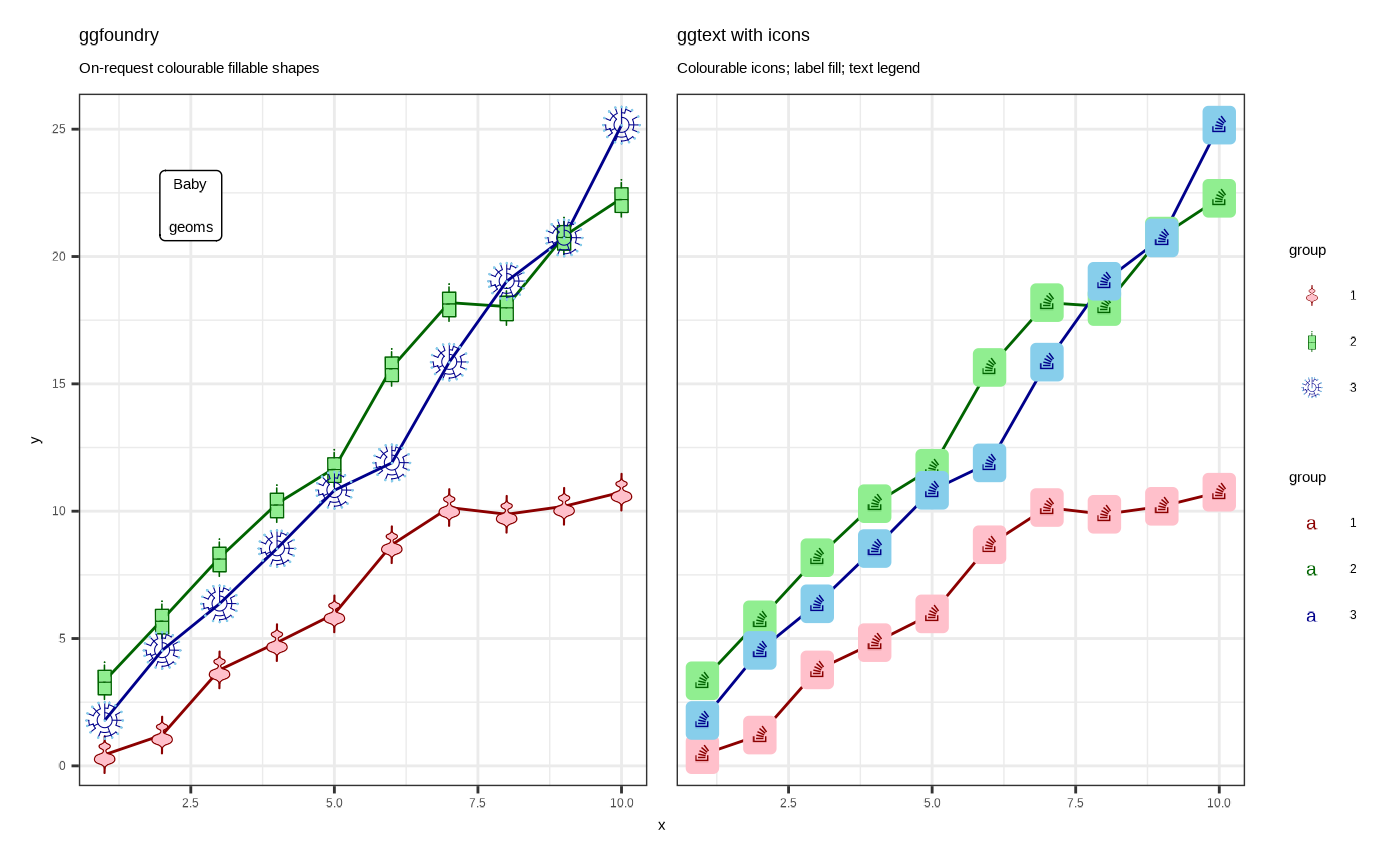
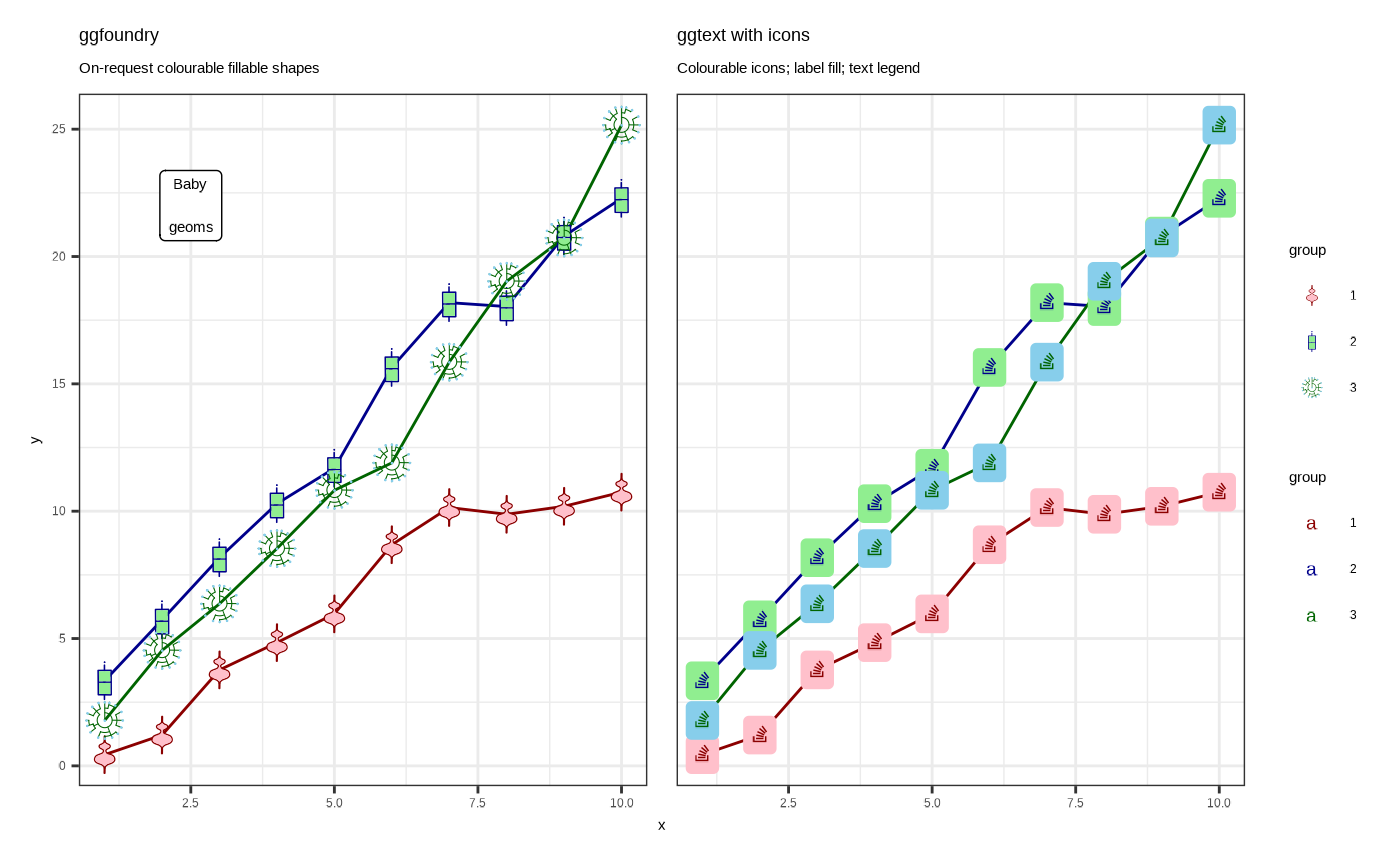
Deploying to gh-pages from @ cgoo4/ggfoundry@312be8160d98e6ab453e736f7d4fd33cc9e7789d 🚀

diff --git a/articles/ggfoundry.html b/articles/ggfoundry.html
@@ -157,7 +157,7 @@ great option. They are colourable and appear in the legend.</p>
 <span><span class="va">p</span> <span class="op">&lt;-</span> <span class="va">df</span> <span class="op">|&gt;</span></span>
 <span>  <span class="fu"><a href="https://ggplot2.tidyverse.org/reference/ggplot.html" class="external-link">ggplot</a></span><span class="op">(</span><span class="fu"><a href="https://ggplot2.tidyverse.org/reference/aes.html" class="external-link">aes</a></span><span class="op">(</span><span class="va">x</span>, <span class="va">y</span>, shape <span class="op">=</span> <span class="va">group</span>, colour <span class="op">=</span> <span class="va">group</span>, fill <span class="op">=</span> <span class="va">group</span><span class="op">)</span><span class="op">)</span> <span class="op">+</span></span>
 <span>  <span class="fu"><a href="https://ggplot2.tidyverse.org/reference/geom_path.html" class="external-link">geom_line</a></span><span class="op">(</span>show.legend <span class="op">=</span> <span class="cn">FALSE</span><span class="op">)</span> <span class="op">+</span></span>
-<span>  <span class="fu"><a href="https://ggplot2.tidyverse.org/reference/scale_manual.html" class="external-link">scale_colour_manual</a></span><span class="op">(</span>values <span class="op">=</span> <span class="fu"><a href="https://rdrr.io/r/base/c.html" class="external-link">c</a></span><span class="op">(</span><span class="st">"darkred"</span>, <span class="st">"darkgreen"</span>, <span class="st">"darkblue"</span><span class="op">)</span><span class="op">)</span> <span class="op">+</span></span>
+<span>  <span class="fu"><a href="https://ggplot2.tidyverse.org/reference/scale_manual.html" class="external-link">scale_colour_manual</a></span><span class="op">(</span>values <span class="op">=</span> <span class="fu"><a href="https://rdrr.io/r/base/c.html" class="external-link">c</a></span><span class="op">(</span><span class="st">"darkred"</span>, <span class="st">"darkblue"</span>, <span class="st">"darkgreen"</span><span class="op">)</span><span class="op">)</span> <span class="op">+</span></span>
 <span>  <span class="fu"><a href="https://ggplot2.tidyverse.org/reference/scale_manual.html" class="external-link">scale_fill_manual</a></span><span class="op">(</span>values <span class="op">=</span> <span class="fu"><a href="https://rdrr.io/r/base/c.html" class="external-link">c</a></span><span class="op">(</span><span class="st">"pink"</span>, <span class="st">"lightgreen"</span>, <span class="st">"skyblue"</span><span class="op">)</span><span class="op">)</span> <span class="op">+</span></span>
 <span>  <span class="fu"><a href="https://ggplot2.tidyverse.org/reference/ggtheme.html" class="external-link">theme_bw</a></span><span class="op">(</span><span class="op">)</span></span>
 <span></span>
@@ -171,8 +171,8 @@ great option. They are colourable and appear in the legend.</p>
 <span>    <span class="op">)</span></span>
 <span></span>
 <span><span class="va">p2</span> <span class="op">&lt;-</span> <span class="va">p</span> <span class="op">+</span></span>
-<span>  <span class="fu"><a href="https://ggplot2.tidyverse.org/reference/geom_point.html" class="external-link">geom_point</a></span><span class="op">(</span>size <span class="op">=</span> <span class="fl">5</span><span class="op">)</span> <span class="op">+</span></span>
-<span>  <span class="fu"><a href="https://ggplot2.tidyverse.org/reference/scale_manual.html" class="external-link">scale_shape_manual</a></span><span class="op">(</span>values <span class="op">=</span> <span class="fu"><a href="https://rdrr.io/r/base/c.html" class="external-link">c</a></span><span class="op">(</span><span class="st">"\U058D"</span>, <span class="st">"\U23C0"</span>, <span class="st">"\U23F2"</span><span class="op">)</span><span class="op">)</span> <span class="op">+</span></span>
+<span>  <span class="fu"><a href="https://ggplot2.tidyverse.org/reference/geom_point.html" class="external-link">geom_point</a></span><span class="op">(</span>size <span class="op">=</span> <span class="fl">4</span><span class="op">)</span> <span class="op">+</span></span>
+<span>  <span class="fu"><a href="https://ggplot2.tidyverse.org/reference/scale_manual.html" class="external-link">scale_shape_manual</a></span><span class="op">(</span>values <span class="op">=</span> <span class="fu"><a href="https://rdrr.io/r/base/c.html" class="external-link">c</a></span><span class="op">(</span><span class="st">"\u25BC"</span>,<span class="st">"\u25CF"</span>,<span class="st">"\u25B2"</span><span class="op">)</span><span class="op">)</span> <span class="op">+</span></span>
 <span>  <span class="fu"><a href="https://ggplot2.tidyverse.org/reference/labs.html" class="external-link">labs</a></span><span class="op">(</span></span>
 <span>    title <span class="op">=</span> <span class="st">"geom_point with unicodes"</span>,</span>
 <span>    subtitle <span class="op">=</span> <span class="st">"Range of colourable-only symbols"</span></span>
